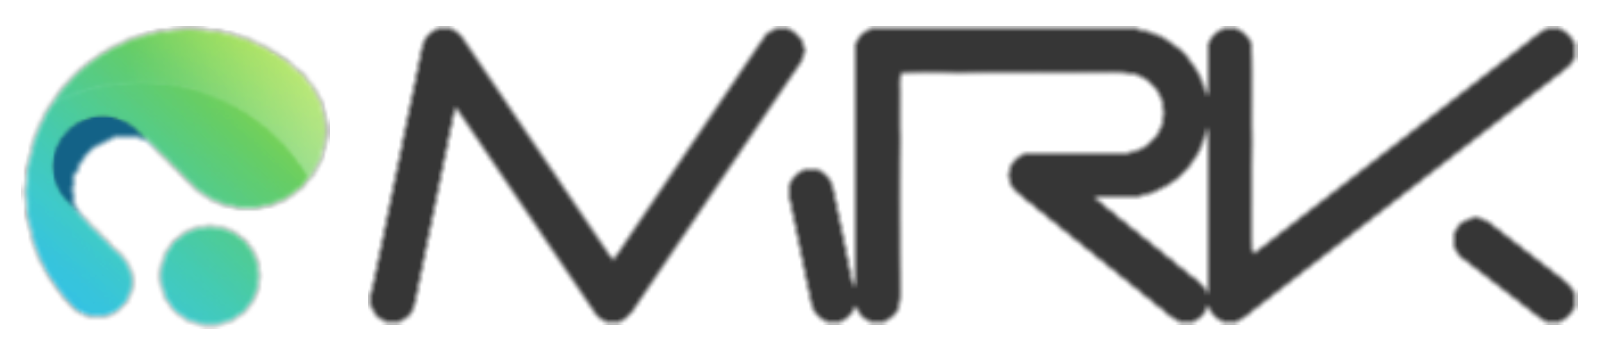
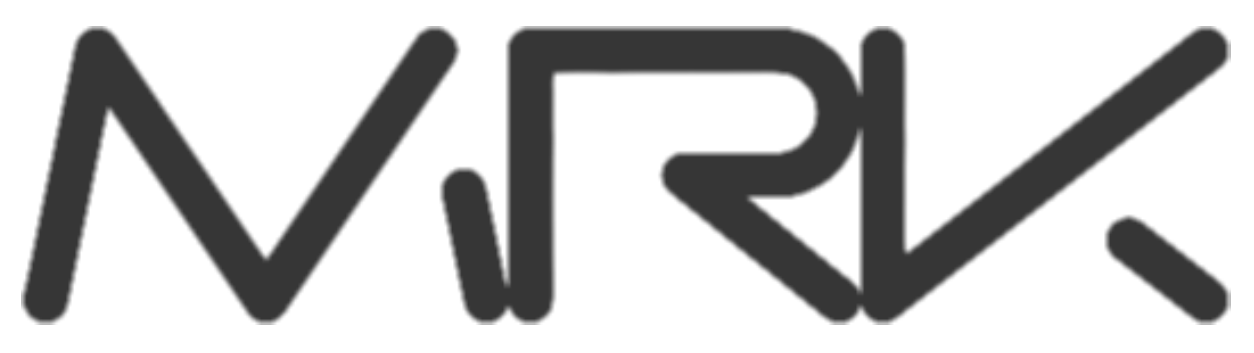
更换logo

diff --git a/src/components/mr-sidebar/menus.jsx b/src/components/mr-sidebar/menus.jsx
@@ -37,24 +37,78 @@ const menus = [
       getItem('登陆日志', 'login-log'),
     ]
   ),
-  // getItem(
-  //   <span style={{ fontSize: '14px' }}>超级表格</span>,
-  //   'superTable',
-  //   <TableOutlined className="slider-menu-icon" />,
-  //   [getItem('TreeFiter', 'tree-fiter'), getItem('SelectFiter', 'select-fiter')]
-  // ),
-  // getItem(
-  //   'dashboard',
-  //   'dashboard',
-  //   <DashboardOutlined className="slider-menu-icon" />,
-  //   [getItem('ChartBoard', 'chart-board'), getItem('ImgBoard', 'img-board')]
-  // ),
+  getItem(
+    <span style={{ fontSize: '14px' }}>超级表格</span>,
+    'superTable',
+    <TableOutlined className="slider-menu-icon" />,
+    [getItem('TreeFiter', 'tree-fiter'), getItem('SelectFiter', 'select-fiter')]
+  ),
+  getItem(
+    'dashboard',
+    'dashboard',
+    <DashboardOutlined className="slider-menu-icon" />,
+    [getItem('ChartBoard', 'chart-board'), getItem('ImgBoard', 'img-board')]
+  ),
 
-  // getItem(
-  //   <span style={{ fontSize: '14px' }}>关于</span>,
-  //   'about',
-  //   <NumberOutlined className="slider-menu-icon" />
-  // ),
+  getItem(
+    <span style={{ fontSize: '14px' }}>关于</span>,
+    'about',
+    <NumberOutlined className="slider-menu-icon" />
+  ),
+  getItem(
+    <span style={{ fontSize: '14px' }}>超级表格</span>,
+    'superTable',
+    <TableOutlined className="slider-menu-icon" />,
+    [getItem('TreeFiter', 'tree-fiter'), getItem('SelectFiter', 'select-fiter')]
+  ),
+  getItem(
+    'dashboard',
+    'dashboard',
+    <DashboardOutlined className="slider-menu-icon" />,
+    [getItem('ChartBoard', 'chart-board'), getItem('ImgBoard', 'img-board')]
+  ),
+
+  getItem(
+    <span style={{ fontSize: '14px' }}>关于</span>,
+    'about',
+    <NumberOutlined className="slider-menu-icon" />
+  ),
+  getItem(
+    <span style={{ fontSize: '14px' }}>超级表格</span>,
+    'superTable',
+    <TableOutlined className="slider-menu-icon" />,
+    [getItem('TreeFiter', 'tree-fiter'), getItem('SelectFiter', 'select-fiter')]
+  ),
+  getItem(
+    'dashboard',
+    'dashboard',
+    <DashboardOutlined className="slider-menu-icon" />,
+    [getItem('ChartBoard', 'chart-board'), getItem('ImgBoard', 'img-board')]
+  ),
+
+  getItem(
+    <span style={{ fontSize: '14px' }}>关于</span>,
+    'about',
+    <NumberOutlined className="slider-menu-icon" />
+  ),
+  getItem(
+    <span style={{ fontSize: '14px' }}>超级表格</span>,
+    'superTable',
+    <TableOutlined className="slider-menu-icon" />,
+    [getItem('TreeFiter', 'tree-fiter'), getItem('SelectFiter', 'select-fiter')]
+  ),
+  getItem(
+    'dashboard',
+    'dashboard',
+    <DashboardOutlined className="slider-menu-icon" />,
+    [getItem('ChartBoard', 'chart-board'), getItem('ImgBoard', 'img-board')]
+  ),
+
+  getItem(
+    <span style={{ fontSize: '14px' }}>关于</span>,
+    'about',
+    <NumberOutlined className="slider-menu-icon" />
+  ),
 ];
 
 export default menus;

diff --git a/src/layouts/auth/index.jsx b/src/layouts/auth/index.jsx
@@ -3,7 +3,10 @@ import LoginForm from './loginForm';
 import LoginFormPhone from './loginForm/form-phone';
 import MrFooter from '@/components/mr-footer';
 import './index.scss';
-import mrkLogo from '@/assets/images/mrk-dark.png';
+
+import mrkLogoLight from '@/assets/images/mrk-light.png';
+import mrkLogoDark from '@/assets/images/mrk-dark.png';
+import mrkLogo from '@/assets/images/logo-mrk.png';
 import loginBc1 from '@/assets/images/login-vr.svg';
 import { handleFullScreenClick } from '@/utils/tools';
 
@@ -40,7 +43,19 @@ function Login() {
       </div>
       {/* 头部 */}
       <Header className="login-header">
-        <img src={mrkLogo} alt="" height="20" />
+        {/* <img src={mrkLogo} alt="" height="20" /> */}
+        <div
+          onClick={() => navigate('/admin')}
+          className="cursor-point flx-center "
+          style={{ height: '60px' }}
+        >
+          <img src={mrkLogo} height="25" style={{ marginRight: '5px' }} />
+          <img
+            src={mode === 'default' ? mrkLogoLight : mrkLogoDark}
+            alt="MRK"
+            height="20"
+          />
+        </div>
         <div>
           <Tooltip title="全屏" color="transparent">
             <a onClick={handleFullScreenClick}>

diff --git a/src/components/mr-header/index.jsx b/src/components/mr-header/index.jsx
@@ -6,6 +6,7 @@ import { useNavigate } from 'react-router-dom';
 
 import mrkLogoLight from '@/assets/images/mrk-light.png';
 import mrkLogoDark from '@/assets/images/mrk-dark.png';
+import mrkLogo from '@/assets/images/logo-mrk.png';
 
 const { Title } = Typography;
 
@@ -27,13 +28,18 @@ const MrHeader = (props) => {
       >
         {props.slotTitle}
       </Title> */}
-      <img
-        src={mode === 'default' ? mrkLogoLight : mrkLogoDark}
-        alt="MRK"
-        height="25"
+      <div
         onClick={() => navigate('/admin')}
-        className="cursor-point"
-      />
+        className="cursor-point flx-center "
+        style={{ height: '60px' }}
+      >
+        <img src={mrkLogo} height="30" style={{ marginRight: '5px' }} />
+        <img
+          src={mode === 'default' ? mrkLogoLight : mrkLogoDark}
+          alt="MRK"
+          height="25"
+        />
+      </div>
 
       {/* 右侧 */}
       <Flex justify="space-between" align="center">

diff --git a/src/index.scss b/src/index.scss
@@ -3,3 +3,20 @@
 @import '@/styles/common.scss';
 @import '@/static/iconfont/iconfont.css';
 @import '@/static/fonts/font.css';
+
+// 设置滚动条样式
+::-webkit-scrollbar {
+  width: 5px;
+  height: 10px;
+  // background-color: #ffffff;
+}
+//定义滑块
+::-webkit-scrollbar-thumb {
+  border-radius: 6px;
+  background: #888;
+}
+//定义轨道
+::-webkit-scrollbar-track {
+  // background: #f1f1f1;
+  background: transparent;
+}

diff --git a/src/styles/common.scss b/src/styles/common.scss
@@ -64,18 +64,6 @@
   transform: translateX(30px);
 }
 
-/* scroll bar */
-::-webkit-scrollbar {
-  width: 8px;
-  height: 8px;
-  background-color: #ffffff;
-}
-::-webkit-scrollbar-thumb {
-  background-color: #dddee0;
-  border-radius: 20px;
-  box-shadow: inset 0 0 0 #ffffff;
-}
-
 /* card 卡片样式 */
 .card {
   box-sizing: border-box;

diff --git a/src/components/mr-sidebar/index.jsx b/src/components/mr-sidebar/index.jsx
@@ -36,6 +36,7 @@ function MrSidebar(props) {
       onClick={handleClick}
       style={{
         backgroundColor: bgColor,
+        direction: 'ltr',
       }}
       defaultSelectedKeys={['home']}
       defaultOpenKeys={['users']}

diff --git a/src/layouts/admin/index.scss b/src/layouts/admin/index.scss
@@ -26,6 +26,7 @@
       display: flex;
       flex-direction: column;
       overflow: auto;
+      direction: rtl; //滚动条从右到左
     }
     // 内容区
     .contentStyle {
